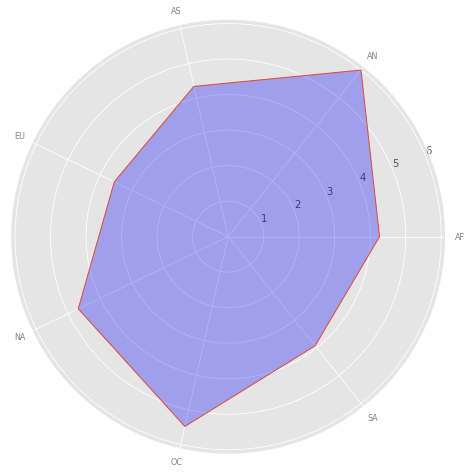
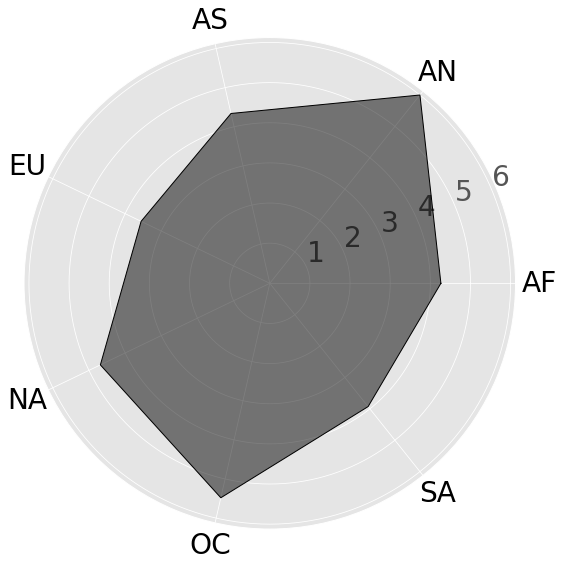
radar chart included dinamic

diff --git a/js/main.js b/js/main.js
@@ -143,3 +143,86 @@ function update_map() {
   }
   console.log(data)
 }
+
+
+var ctx = document.getElementById("canvas1").getContext('2d');
+
+var myChart = new Chart(ctx, {
+  // The type of chart we want to create
+  type: 'radar',
+
+  // The data for our dataset
+  data: {
+    labels: ["Africa", 
+             "Antartica",
+             "Asia", 
+             "Europa",
+             "Norte America", 
+             "Oceania",
+             "Sur America", 
+             ],
+    datasets: [{
+      label: "Rojo",
+      backgroundColor: 'rgba(255,0,0,0.3)',
+      borderColor: 'rgba(179,181,198,1)',
+      data: [131.04399717514121,
+        98.36808333333335,
+        161.63147988505744,
+        176.70326923076925,
+        128.17267094017095,
+        114.58741666666667,
+        150.55208333333337]
+    }, {
+      label: "Verde",
+      backgroundColor: 'rgba(0,255,0,0.3)',
+      borderColor: 'rgba(179,181,198,1)',
+      data: [116.27050847457629,
+        76.14641666666667,
+        110.25350574712644,
+        106.54996794871798,
+        108.70940170940172,
+        97.50821666666667,
+        119.06921875]
+    }, {
+      label: "Azul",
+      backgroundColor: 'rgba(0,0,255,0.3)',
+      borderColor: 'rgba(179,181,198,1)',
+      data: [91.24826977401125,
+        138.22491666666667,
+        101.3025287356322,
+        110.64713141025638,
+        125.08934829059832,
+        118.5187,
+        93.2134375]
+    }]
+  },
+
+  // Configuration options go here
+  options: {
+    scale: {
+      pointLabels: {
+        fontSize: 10
+      },
+      ticks: {
+        min: 0,
+        max: 255
+      }
+
+    },
+    layout: {
+      padding: {
+        left: 100,
+        right: 100,
+        top: 100,
+        bottom: 100
+      }
+    },
+    title: {
+      display: true,
+      text: 'Grafica',
+      fontSize: 20
+    },
+
+  },
+
+});

diff --git a/index.html b/index.html
@@ -7,6 +7,7 @@
     <meta name="viewport" content="width=device-width, initial-scale=1">
 
     <link rel="stylesheet" type="text/css" media="screen" href="css/main.css" />
+    <script src="https://cdnjs.cloudflare.com/ajax/libs/Chart.js/2.4.0/Chart.js"></script>
     <script src="https://cdnjs.cloudflare.com/ajax/libs/d3/3.5.3/d3.min.js"></script>
     <script src="https://cdnjs.cloudflare.com/ajax/libs/topojson/1.6.9/topojson.min.js"></script>
     <script type="text/javascript" src="src/datamaps.world.min.js"></script>
@@ -60,8 +61,16 @@
 
         <h2>Colores en banderas del mundo</h2>
         <img src = "img/flags_plot.png"  width=50%><br>
-        <img src = "img/continent_ncolors.png" ><br>
+        <img src = "img/continent_ncolors.png" width=50%><br>
         <img src = "img/rgb_dist.png"  width=50%>
+
+
+
+        <div id='figure' style="width:70%;">
+            <canvas id="canvas1" width="400" height="400"></canvas>
+        </div>
+
+
 
         <h2>Colores en el mapa</h2>
         <p align="justify">Ahora vamos a ver un grafico dinámico de las banderas en el mapa.
